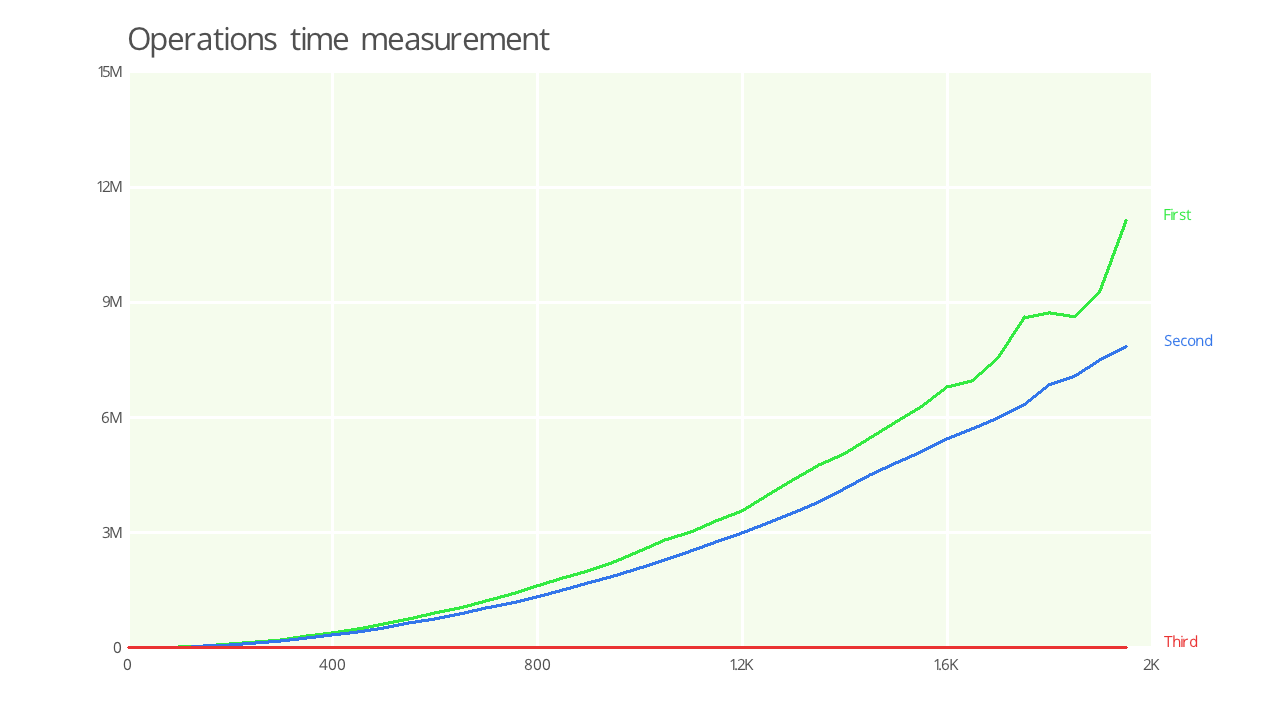
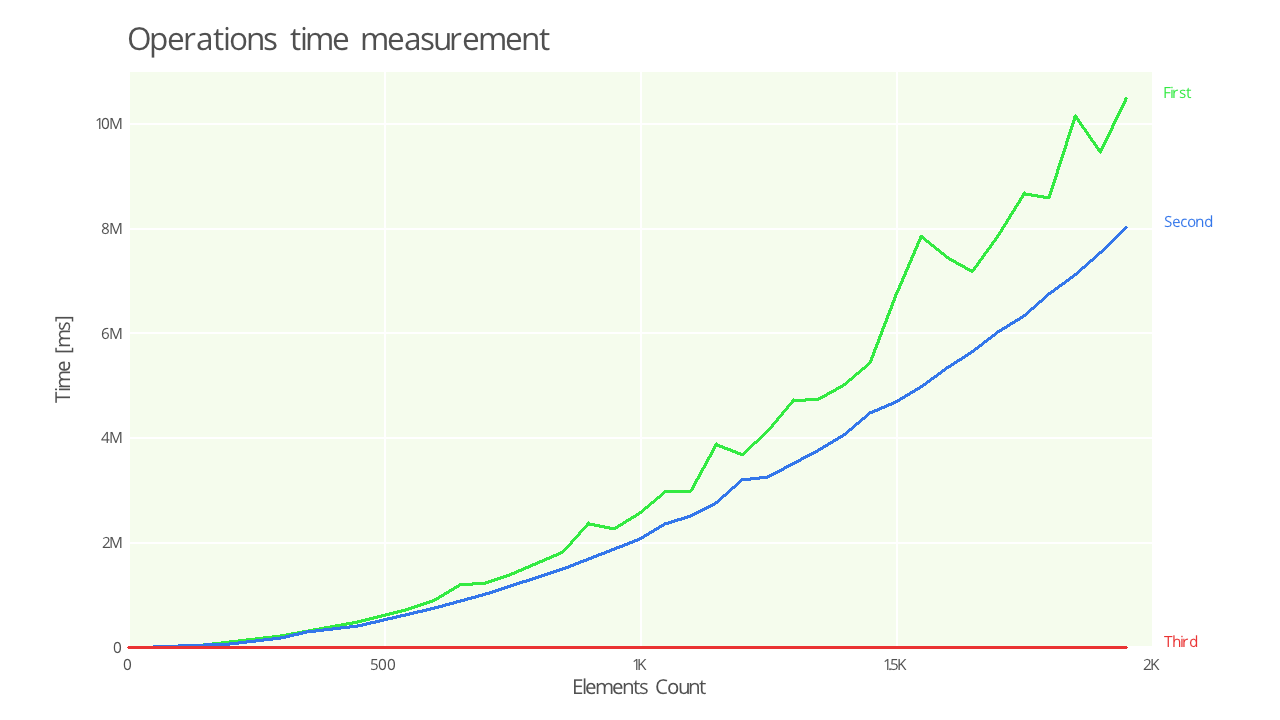
[0.2]: Updated README

diff --git a/sources/libplot.cpp b/sources/libplot.cpp
@@ -416,6 +416,7 @@ struct PlotConfig{
     Pixel BackgroundColor;
     Pixel TextColor;
     int LineWidth;
+    int SeparatorWidth;
     int MarginX;
     int MarginY;
     int PlotSizeX;
@@ -537,7 +538,7 @@ void DrawPlotFrame(Image &background, const PlotConfig &config, const char *titl
             TracePoint cross = MapToPlotCoords(config, current, 0);
 
             std::string label = Shorten(current);
-            DrawOpaqueRect(background, config.BackgroundColor, config.MarginX + cross.x, config.MarginY, config.LineWidth*2, background.Height - config.MarginY*2);
+            DrawOpaqueRect(background, config.BackgroundColor, config.MarginX + cross.x, config.MarginY, config.SeparatorWidth, background.Height - config.MarginY*2);
             DrawStringHorizontally(background, config.TextColor, label.c_str(), config.AxisFontSize, config.MarginX + cross.x - default_font.GetStringLength(label.c_str(), config.AxisFontSize)/2.0, config.MarginY - config.YFontMargin);
         }
     }
@@ -554,7 +555,7 @@ void DrawPlotFrame(Image &background, const PlotConfig &config, const char *titl
 
             if(text_length > max_axis_text_size) max_axis_text_size = text_length;
 
-            DrawOpaqueRect(background, config.BackgroundColor, config.MarginX, config.MarginY + cross.y,  background.Width - config.MarginX*2, config.LineWidth*2);
+            DrawOpaqueRect(background, config.BackgroundColor, config.MarginX, config.MarginY + cross.y,  background.Width - config.MarginX*2, config.SeparatorWidth);
             DrawStringHorizontally(background, config.TextColor, label.c_str(), config.AxisFontSize, config.MarginX*0.96 - text_length, config.MarginY + cross.y - config.AxisFontSize / 4);
         }
     }
@@ -634,6 +635,7 @@ bool PlotBuilder::Trace(const TraceData traces[], size_t traces_count, const cha
     config.BackgroundColor = {255, 255, 255, 255};
     config.TextColor       = {80, 80, 80, 255};
     config.LineWidth       = 1;
+    config.SeparatorWidth  = 3;
     config.MarginX         = width * 0.1;
     config.MarginY         = height * 0.1;
     config.PlotSizeX       = width - config.MarginX * 2;

diff --git a/README.md b/README.md
@@ -10,7 +10,7 @@ P.S. It is better not to open font.cpp :-)
 
 ## Examples
 
-### Small parabola
+### Minimum amount of code to create a simple plot:
 ```c++
 #include "libplot.hpp"
 
@@ -27,14 +27,40 @@ int main(){
     trace.y = &y[0]; // pointer to the first element of Y array
     trace.Count = 6; // elements count of X and Y arrays
 
-    PlotBuilder::Trace("parabola.jpg", "Test Graph", 1280, 720, trace);
+    PlotBuilder::Trace(trace, "parabola.jpg");
 }
 
 ```
 Expected result:
 ![](https://github.com/E1Hephaestus/libplot/blob/master/examples/parabola.jpg?raw=true)
 
-### Or you can go even further
+### You can pass array of TraceData in order to plot multiple traces
+```c++
+
+    TraceData traces[SIZE];
+    //... code to fill traces array
+    PlotBuilder::Trace(traces, "parabola.jpg");
+
+```
+### You can provide each trace with name
+
+```c++
+    TraceData trace; 
+    //... code to fill trace structure
+    trace.Name = "Trace Name";
+
+```
+
+### You can pass output image width and height, plot title and axis names
+By default they are empty.
+
+```c++
+    //...
+    PlotBuilder::Trace(traces, "parabola.jpg", ImageWidth, ImageHeight, "PlotTitle", "XAxisName", "YAxisName");
+
+```
+
+### In the end you can get something like this
 ***
 
 ![](https://github.com/E1Hephaestus/libplot/blob/master/examples/operations.png?raw=true)
